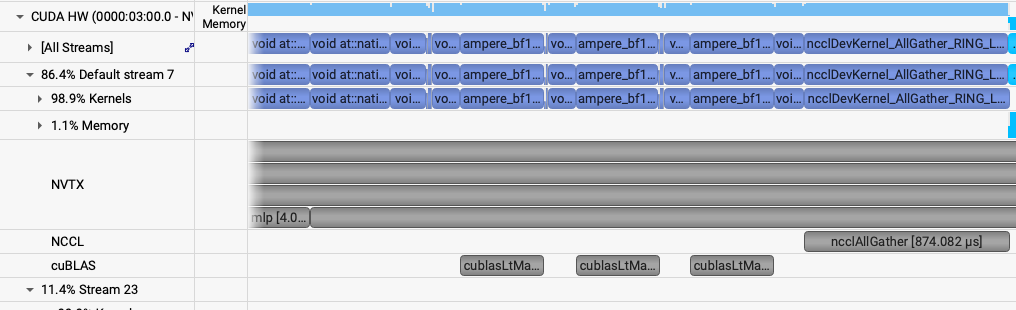
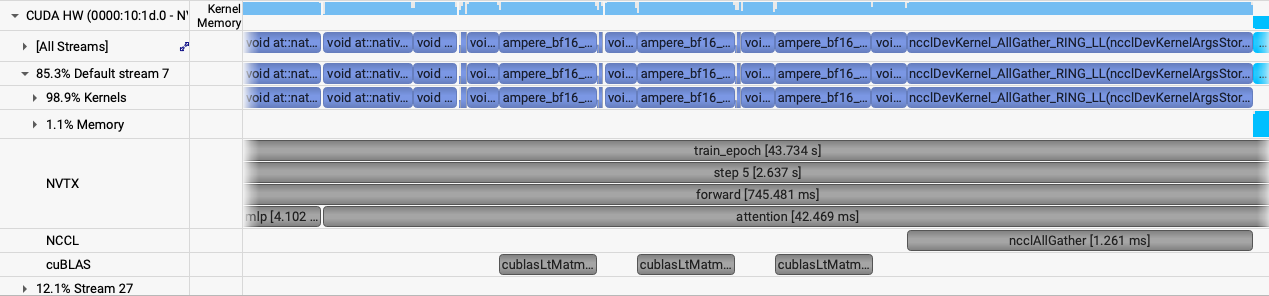
update vit model-parallel.md with new logs and profiles

diff --git a/docs/vit/model-parallel.md b/docs/vit/model-parallel.md
@@ -13,7 +13,7 @@ sbatch -N 1 --gpus-per-node 4 --cpus-per-task 48 \
 The model is built before the step fails. The log reports a local parameter count of 555.545 M.
 
 ```text
-2026-11-09 21:03:09,311 - root - INFO - Local parameter count: 555.545 M
+2026-11-12 02:09:52,526 - root - INFO - Local parameter count: 555.545 M
 ```
 
 The forward then fails in `F.linear` inside the pointwise linear:
@@ -136,33 +136,35 @@ sbatch -N 2 ./submit_mp.sh --yaml_config ./config/ViT.yaml --config short_mp --r
     --tp=1 --sp1=4 --sp2=1
 ```
 
+Log: `$HOME/sc26-dl-tutorial/logs/short_mp/4MP/mp/out.log`. Profiles: `vit_mp.0.nsys-rep` through `vit_mp.15.nsys-rep`.
+
 `sp1=4` brings the local parameter count to 480.048 M. The first three epochs stay under 40 GB. Epoch 4 is the profiled epoch.
 
 ```text
-2026-11-09 21:13:17,782 - root - INFO - Starting Training Loop...
-2026-11-09 21:13:24,538 - root - INFO -  Memory usage after forward pass: 33.72662353515625 GB.
-2026-11-09 21:14:04,172 - root - INFO - Time taken for epoch 1 is 38.818769 sec, avg 1.545644 samples/sec
-2026-11-09 21:14:04,177 - root - INFO -   Avg train loss=0.606727
-2026-11-09 21:14:04,188 - root - INFO -   Avg val loss=0.3623535633087158
-2026-11-09 21:14:04,193 - root - INFO -   Total validation time: 1.284818410873413 sec
-2026-11-09 21:14:06,896 - root - INFO -  Memory usage after forward pass: 35.79498291015625 GB.
-2026-11-09 21:14:49,885 - root - INFO - Time taken for epoch 2 is 40.914987 sec, avg 1.564219 samples/sec
-2026-11-09 21:14:49,891 - root - INFO -   Avg train loss=0.304982
-2026-11-09 21:14:49,901 - root - INFO -   Avg val loss=0.3405551314353943
-2026-11-09 21:14:49,911 - root - INFO -   Total validation time: 1.9484591484069824 sec
-2026-11-09 21:14:52,629 - root - INFO -  Memory usage after forward pass: 36.04498291015625 GB.
-2026-11-09 21:15:35,487 - root - INFO - Time taken for epoch 3 is 41.071731 sec, avg 1.558249 samples/sec
-2026-11-09 21:15:35,492 - root - INFO -   Avg train loss=0.292403
-2026-11-09 21:15:35,502 - root - INFO -   Avg val loss=0.3354734778404236
-2026-11-09 21:15:35,507 - root - INFO -   Total validation time: 1.9264698028564453 sec
+2026-11-12 02:11:39,113 - root - INFO - Starting Training Loop...
+2026-11-12 02:11:44,897 - root - INFO -  Memory usage after forward pass: 34.01580810546875 GB.
+2026-11-12 02:12:27,901 - root - INFO - Time taken for epoch 1 is 40.834481 sec, avg 1.469346 samples/sec
+2026-11-12 02:12:27,912 - root - INFO -   Avg train loss=0.572400
+2026-11-12 02:12:27,922 - root - INFO -   Avg val loss=0.3583354353904724
+2026-11-12 02:12:27,927 - root - INFO -   Total validation time: 1.4751899242401123 sec
+2026-11-12 02:12:30,941 - root - INFO -  Memory usage after forward pass: 36.17791748046875 GB.
+2026-11-12 02:13:16,589 - root - INFO - Time taken for epoch 2 is 43.178823 sec, avg 1.482208 samples/sec
+2026-11-12 02:13:16,599 - root - INFO -   Avg train loss=0.300683
+2026-11-12 02:13:16,605 - root - INFO -   Avg val loss=0.33952224254608154
+2026-11-12 02:13:16,610 - root - INFO -   Total validation time: 2.2306969165802 sec
+2026-11-12 02:13:19,659 - root - INFO -  Memory usage after forward pass: 36.36541748046875 GB.
+2026-11-12 02:14:05,387 - root - INFO - Time taken for epoch 3 is 42.996899 sec, avg 1.488479 samples/sec
+2026-11-12 02:14:05,397 - root - INFO -   Avg train loss=0.290804
+2026-11-12 02:14:05,413 - root - INFO -   Avg val loss=0.33401578664779663
+2026-11-12 02:14:05,423 - root - INFO -   Total validation time: 2.2465858459472656 sec
 ```
 
 Recorded performance, leaving out the profiled epoch:
 
-- GPU memory: 36.045 GB peak after the forward pass.
-- Throughput: 1.56 samples/sec across 16 GPUs, with local batch 1.
+- GPU memory: 36.366 GB peak after the forward pass.
+- Throughput: 1.48 samples/sec across 16 GPUs, with local batch 1.
 
-Attention keeps the query on this rank's tokens and all-gathers the keys and values over `sp1-sp2` before the score. In the profile that gather is `ncclDevKernel_AllGather` on the default stream, about 874 µs, between the BF16 GEMMs of the forward.
+Attention keeps the query on this rank's tokens and all-gathers the keys and values over `sp1-sp2` before the score. In the profile that gather is `ncclDevKernel_AllGather` on the default stream, about 1.3 ms, between the BF16 GEMMs of the forward.
 
 ![ViT spatial profile, NCCL all-gather of keys and values in the forward](../../tutorial_images/vit_mp.png)
 
